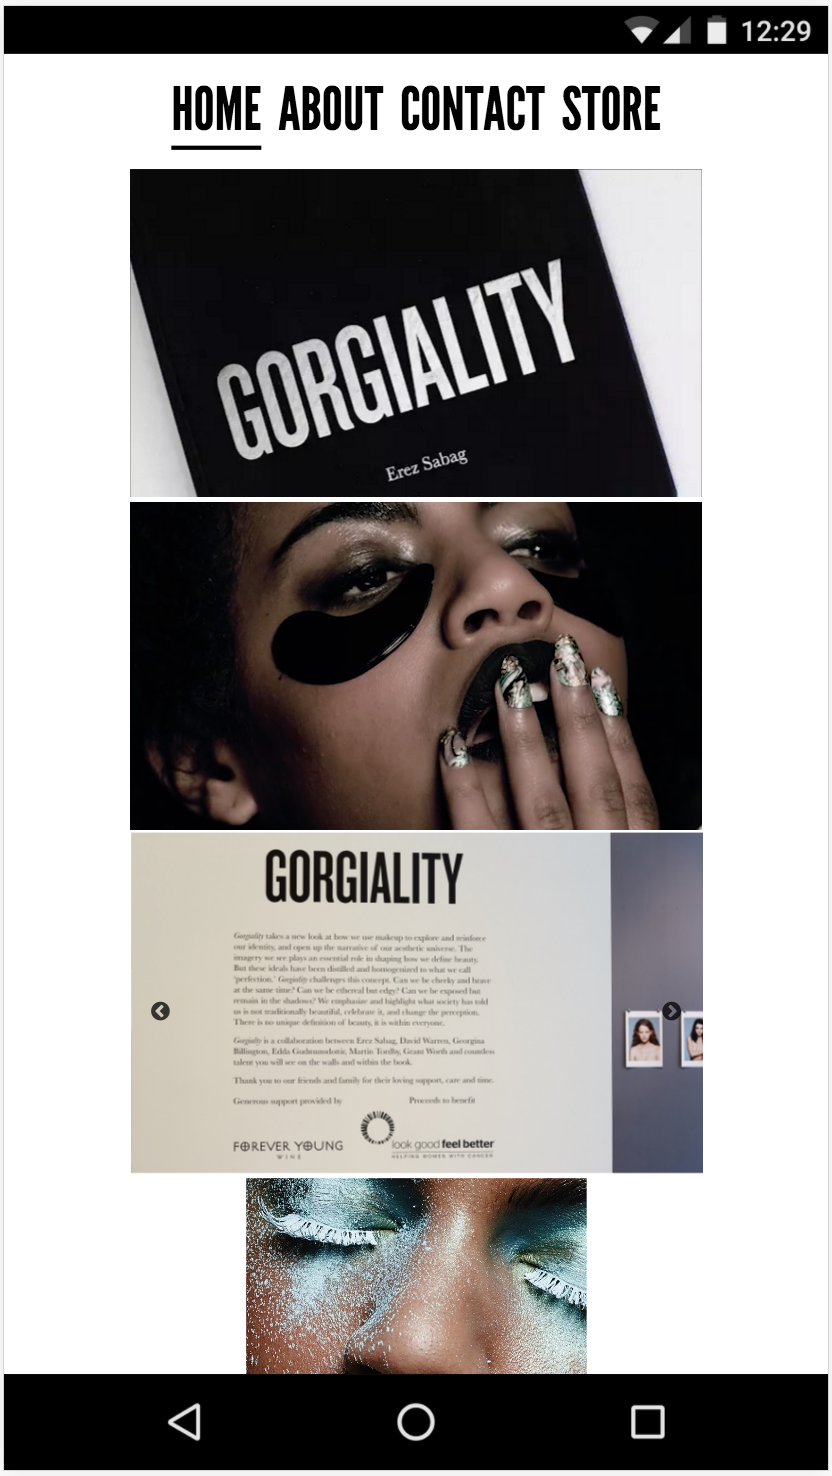
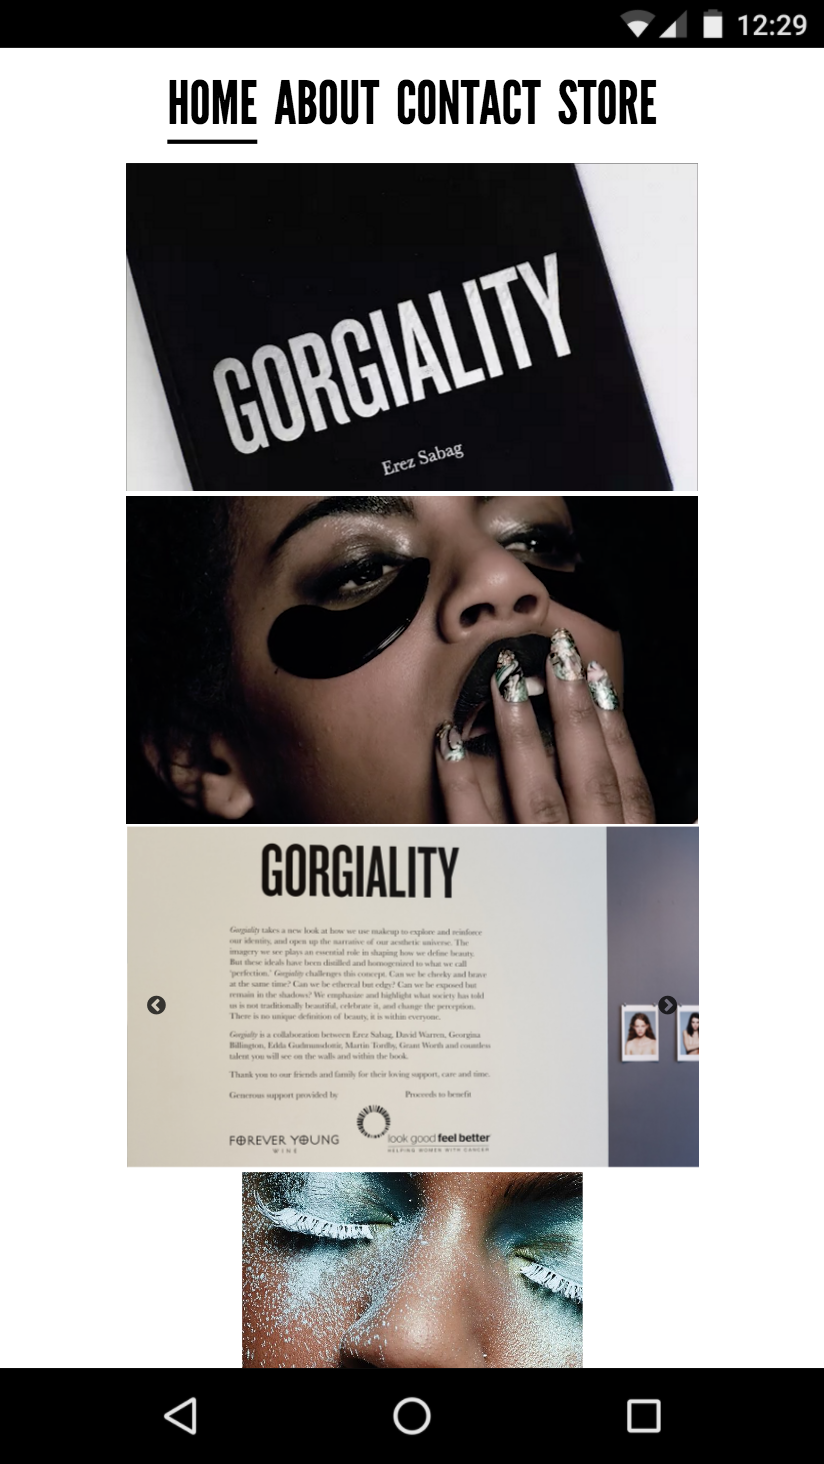
safari fixes

diff --git a/stylesheets/main.css b/stylesheets/main.css
@@ -123,25 +123,31 @@ article {
   max-width: 350px;
   height: 100%;
   width: 100%;
+  transition: all .25s;
+}
+/* line 21, ../sass/_work.scss */
+.work__images img:active {
+  transform: scale(2);
 }
 @media screen and (max-width: 600px) {
-  /* line 21, ../sass/_work.scss */
+  /* line 25, ../sass/_work.scss */
   .work__images img,
   .work__images span {
     margin-bottom: 20px;
   }
 }
-/* line 25, ../sass/_work.scss */
+/* line 29, ../sass/_work.scss */
 .work__images .images-landscape {
   max-width: 580px;
 }
-/* line 26, ../sass/_work.scss */
+/* line 30, ../sass/_work.scss */
 .work__images .images-portrait {
   max-height: 400px;
   width: auto;
+  height: auto;
   margin-bottom: 10px;
 }
-/* line 31, ../sass/_work.scss */
+/* line 36, ../sass/_work.scss */
 .work__images iframe,
 .work__images .phone-screenshot {
   max-width: 542px;
@@ -151,7 +157,7 @@ article {
   box-shadow: 0px 0px 20px #9d9d9d;
 }
 
-/* line 44, ../sass/_work.scss */
+/* line 49, ../sass/_work.scss */
 .arrow-left {
   transform: rotate(180deg);
 }

diff --git a/work.html b/work.html
@@ -135,7 +135,7 @@
         <h2>Thrifty</h2>
         <p class="work__description">
           An online used clothing marketplace built on the MEAN stack. Designed and built the app from front to back end with one other developer for the final in Northeastern's web development course.<br>
-          <a href="http://webdevproject-alexandergomez.rhcloud.com/#/home" target="_blank">Check it out.</a>
+          <!-- <a href="http://webdevproject-alexandergomez.rhcloud.com/#/home" target="_blank">Check it out.</a> -->
         </p>
         <div class="work__images">
           <img class="images-portrait phone-screenshot" src="images/thrifty/thrifty1.png" alt="">

diff --git a/sass/_work.scss b/sass/_work.scss
@@ -17,6 +17,10 @@ article {
       max-width: 350px;
       height: 100%;
       width: 100%;
+      transition: all .25s;
+      &:active {
+        transform: scale(2);
+      }
     }
     img,
     span {
@@ -26,6 +30,7 @@ article {
     .images-portrait {
       max-height: 400px;
       width: auto;
+      height: auto;
       margin-bottom: 10px;
     }
     iframe,
